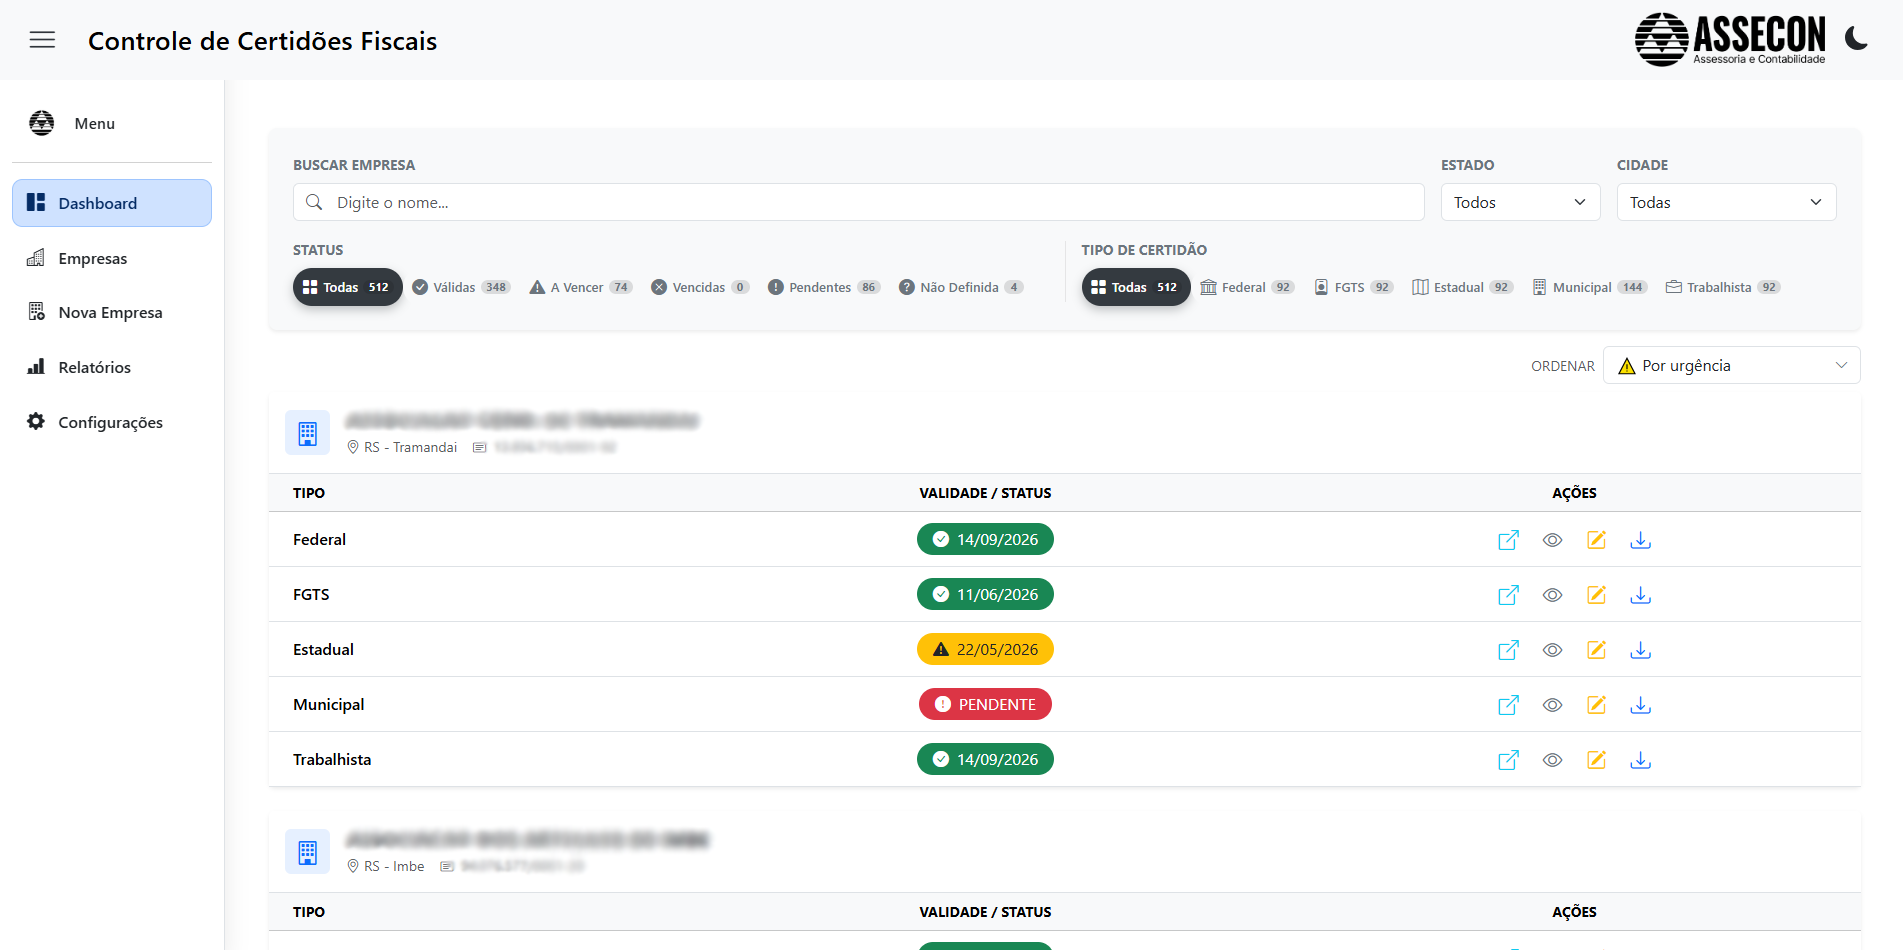
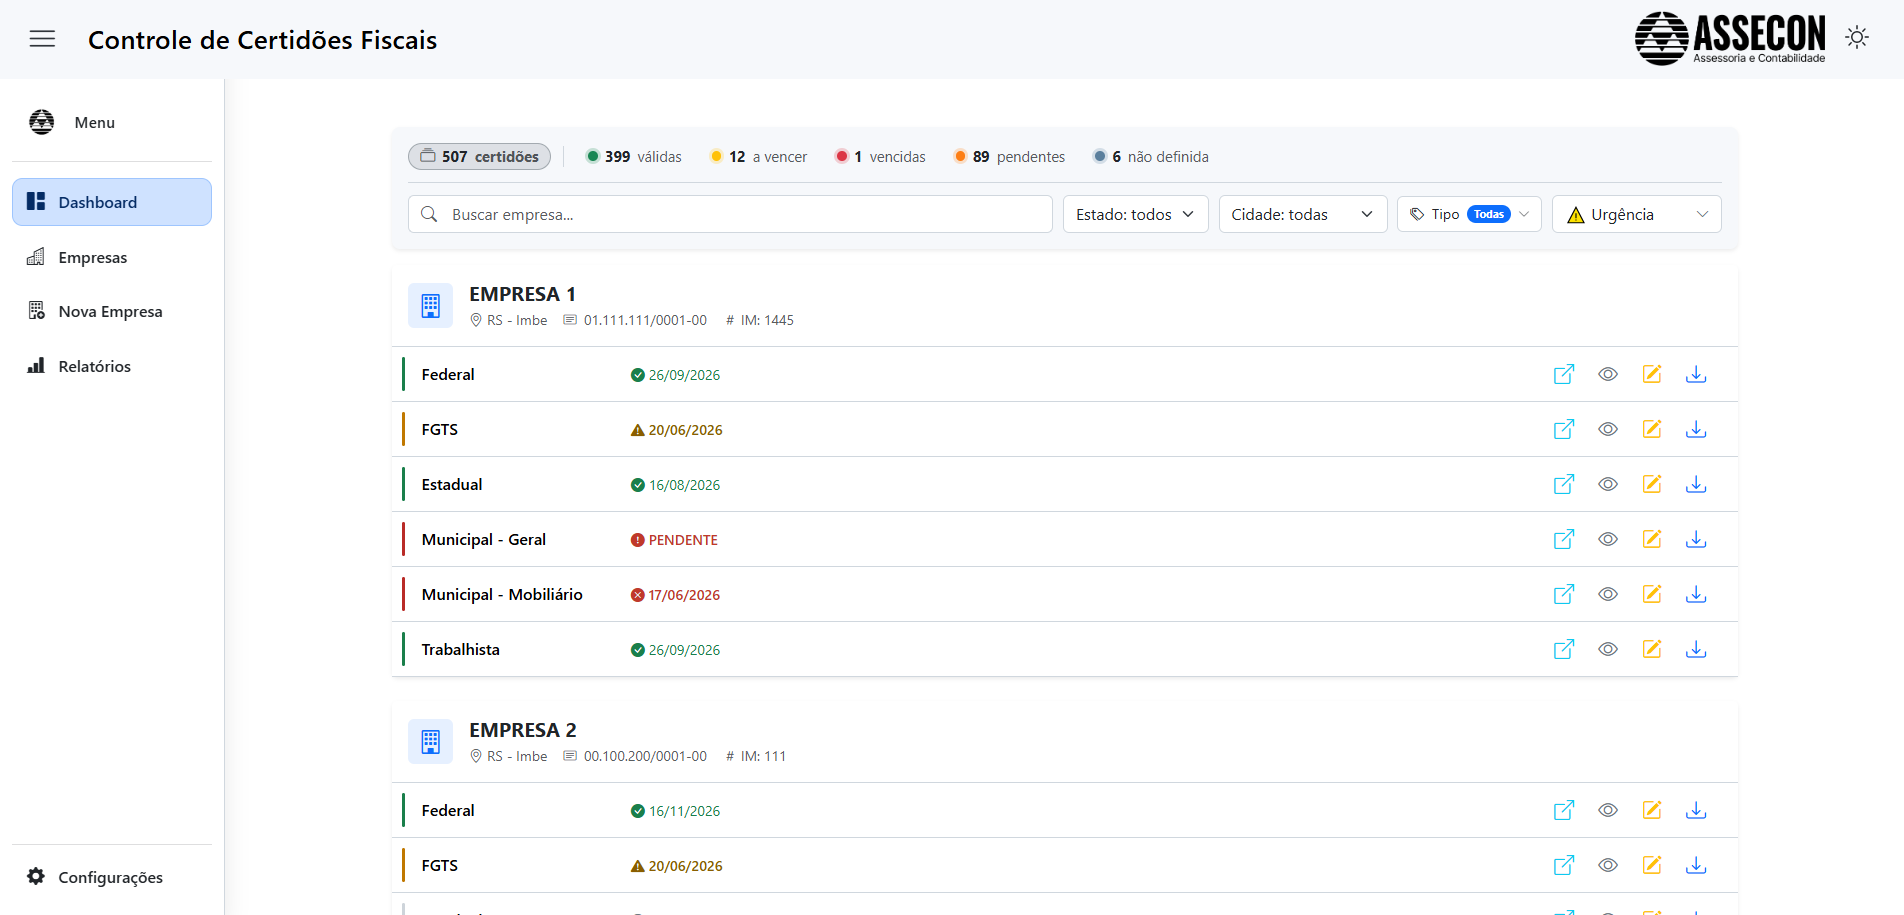
docs: atualiza image do dashboard e readme

diff --git a/README.md b/README.md
@@ -13,7 +13,7 @@ O sistema combina:
 - Dashboard único com status das certidões por empresa.
 - Automação via Selenium para acelerar a emissão.
 - Controle de arquivos (download, movimentação e visualização).
-- Fluxos em lote para cenários de alto volume (FGTS e Estadual RS).
+- Fluxos em lote para cenários de alto volume (FGTS, Estadual RS e Municipal — Imbé/Tramandaí).
 
 ## Tecnologias
 
@@ -60,9 +60,10 @@ O sistema combina:
 - Filtros por status e busca por nome em tempo real.
 - Status visual de certidões:
   - Verde: válida
-  - Amarelo: a vencer (limite configurável)
+  - Amarelo: a vencer (limite configurável, global ou por tipo de certidão)
   - Vermelho: vencida ou pendente
   - Cinza: sem data definida
+- Cadastro de nova empresa com seleção de cidade via dropdown (apenas municípios cadastrados) e inscrição mobiliária condicional (Imbé).
 - Tela de Empresas com listagem, filtros, edição e remoção com confirmação.
 - Sidebar responsiva com estado persistente.
 - Tema claro/escuro com persistência local.
@@ -210,7 +211,7 @@ O caminho base pode ser configurado via variável `CAMINHO_REDE`. Ajuste conform
 
 ### Limite de "a vencer"
 
-Na tela de Configurações, é possível ajustar o limite de dias para uma certidão ficar "a vencer" (1 a 30 dias). O valor é global e afeta dashboard, relatórios e lotes.
+Na tela de Configurações, é possível ajustar o limite de dias para uma certidão ficar "a vencer" (1 a 90 dias). Há um valor **padrão** (aplicado a todos os tipos) e limites **opcionais por tipo** (Federal, FGTS, Estadual, Municipal e Trabalhista) que sobrepõem o padrão quando preenchidos. O limite efetivo afeta dashboard, relatórios e lotes.
 
 ### Municípios
 
@@ -234,15 +235,25 @@ As automações municipais dependem da configuração de seletores e steps na ta
     versions/
   instance/
 app/
-  __init__.py              # Inicialização Flask
-  captcha_solver.py        # Integração 2captcha
+  __init__.py              # Inicialização Flask (factory create_app)
+  routes.py                # Rotas e fluxos de negócio (blueprint 'main')
   models.py                # Modelos do banco
-  routes.py                # Rotas e fluxos de negócio
-  automation.py            # URLs, seletores e validades
+  captcha_solver.py        # Integração 2captcha (ALTCHA e captcha de imagem)
   file_manager.py          # Detecção/movimentação de PDFs
+  errors.py                # Taxonomia de erros e mapeamento de exceções
+  utils.py                 # Utilitários compartilhados (to_bool, get_config_value)
+  automation/              # Pacote de automação (antes automation.py)
+    __init__.py            #   reexporta SITES_CERTIDOES, VALIDADES_CERTIDOES
+    sites.py               #   URLs, seletores e validades padrão
+    driver.py              #   WebDriver Chrome + auto-seleção de certificado RS
+    steps.py               #   Steps municipais data-driven + mapa de localizadores
+    pdf.py                 #   Leitura/classificação de PDF
+    emissao.py             #   Emissão por tipo (FGTS/Estadual RS/Municipal)
+    batch_state.py         #   Estado e locks compartilhados dos lotes
   # stop_federal_monitor.txt é criado/removido em runtime (não versionado)
   services/
     batch_engine.py        # Motor compartilhado de lotes
+    certidao_service.py    # Operações de domínio sobre Certidão (validade/pendente)
     correlation.py         # Contexto de correlação (request_id/execution_id)
     execution_logger.py    # Logger estruturado em JSON
     health.py              # Health checks de dependências